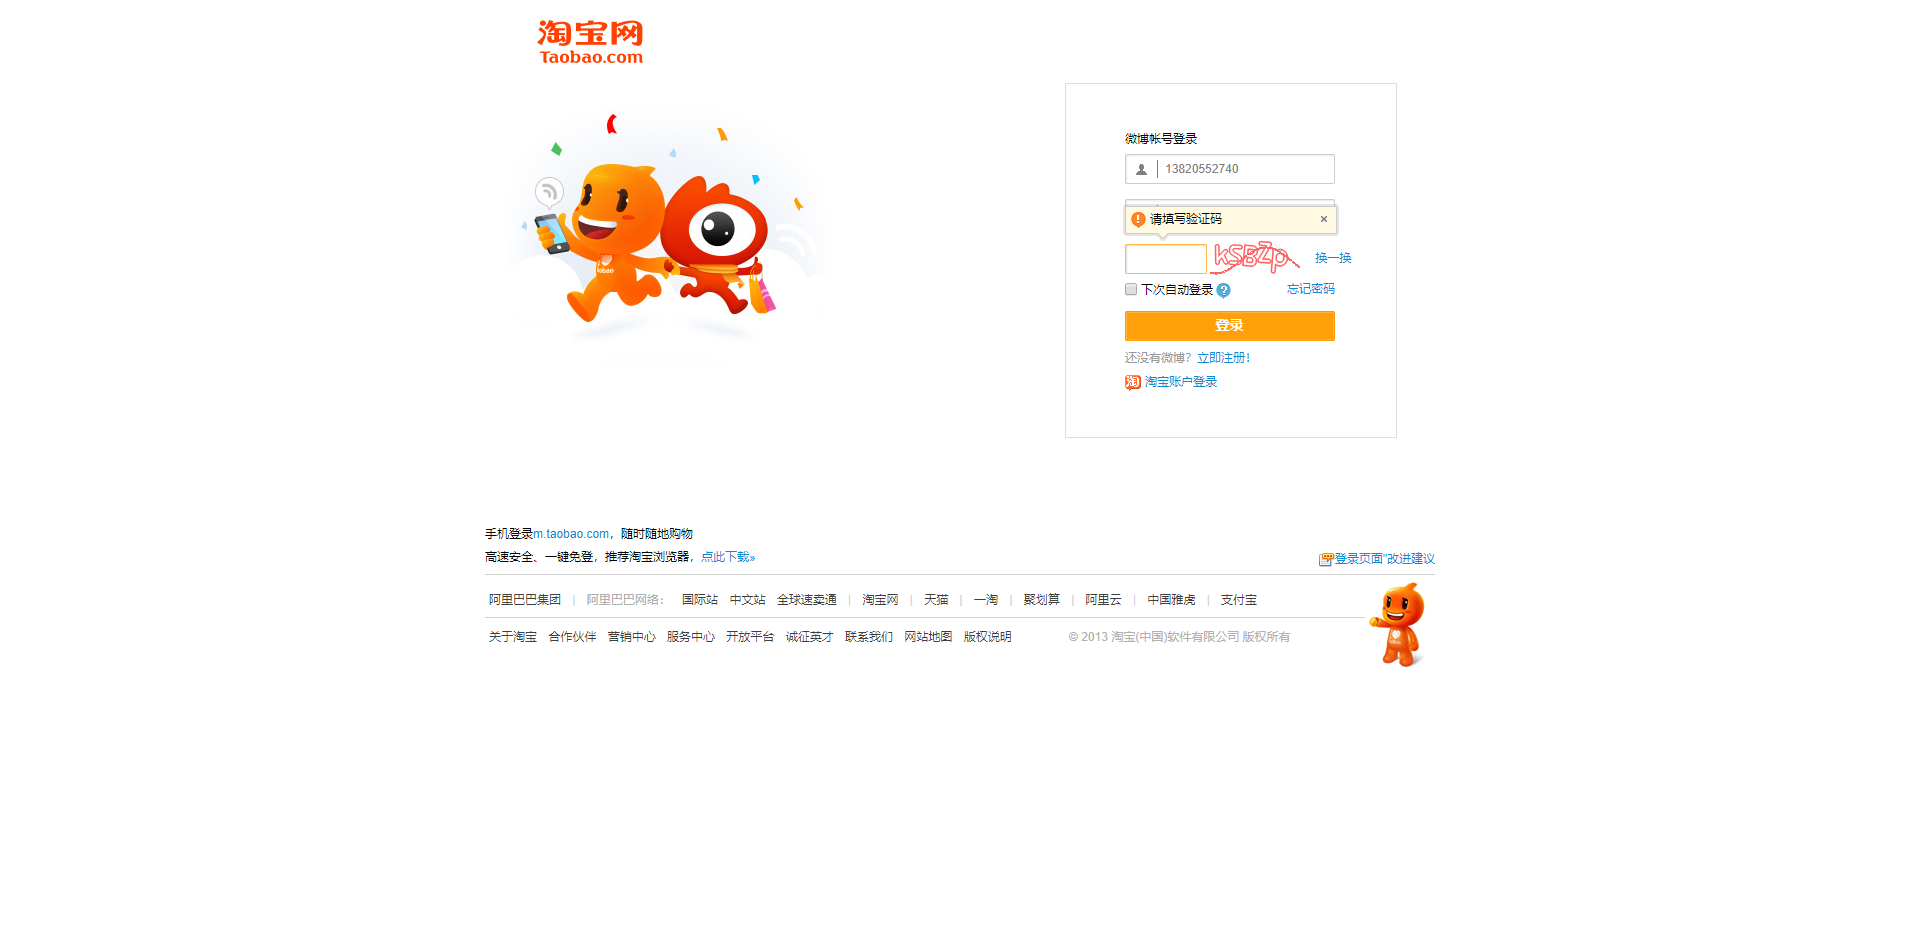
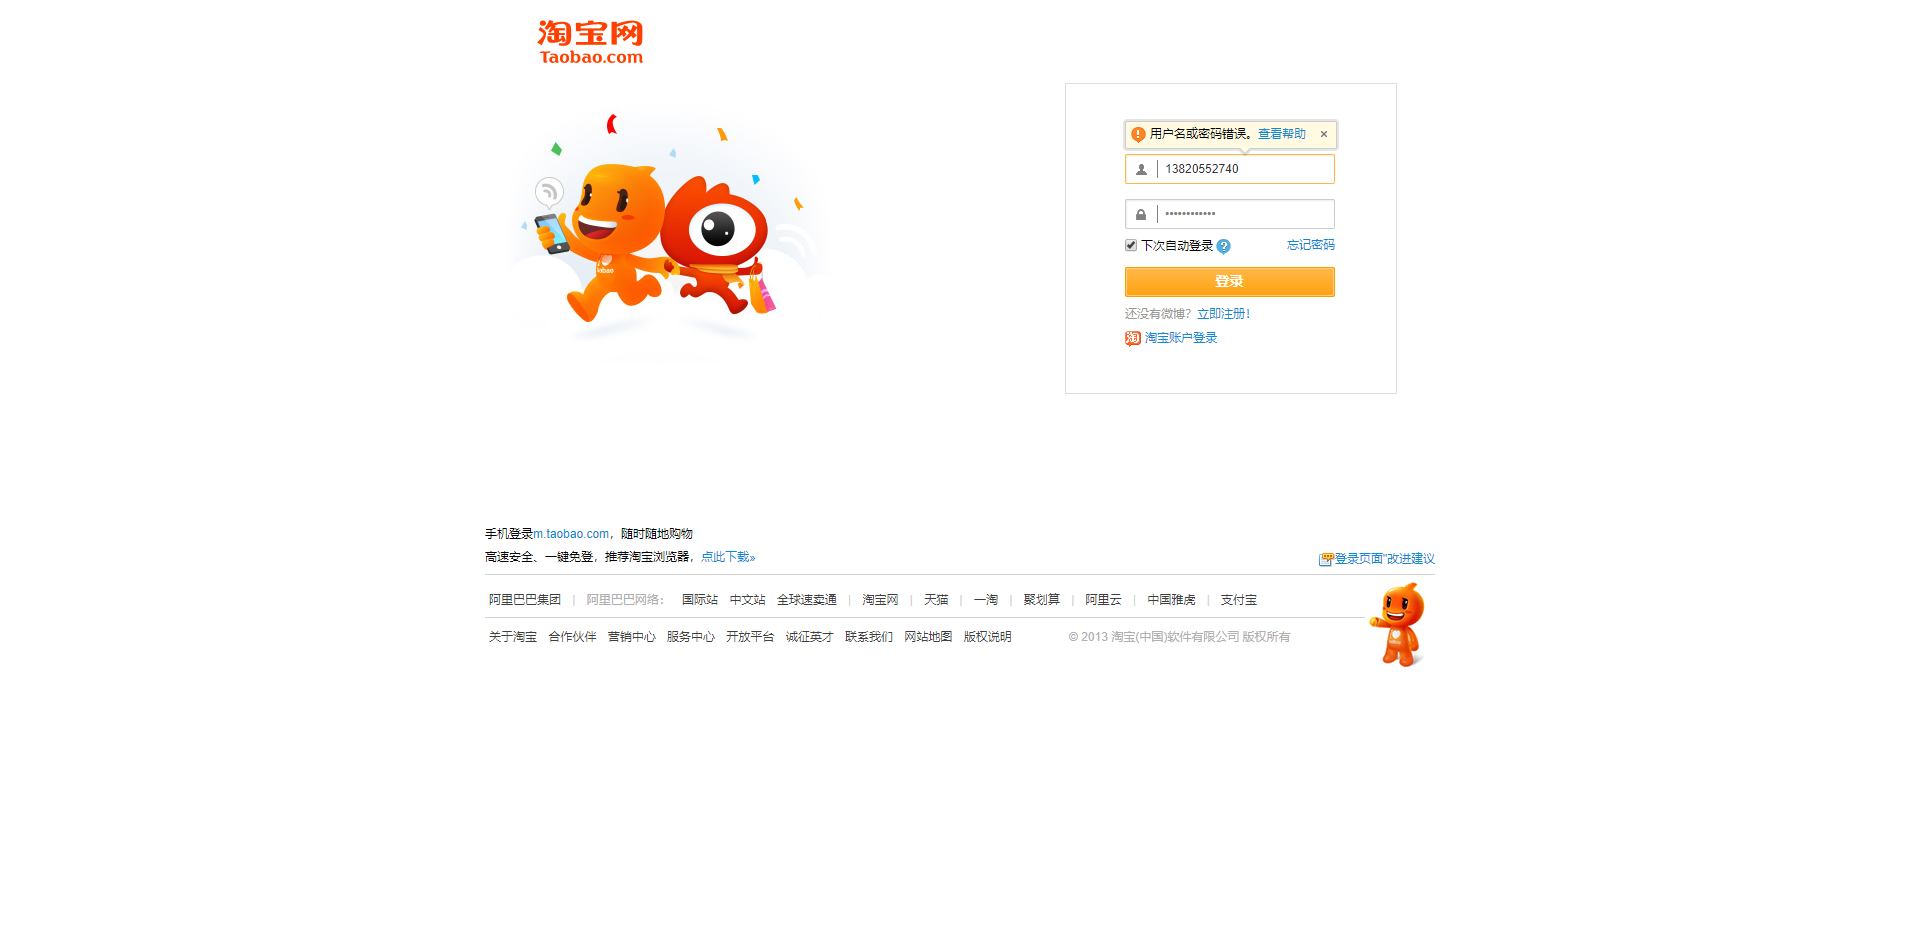
verify code delete lines

Changed region(s): [[0.5625, 0.2117, 0.7188, 0.4233], [0.5625, 0.121, 0.7188, 0.1814]]

diff --git a/headless/headlessTest.py b/headless/headlessTest.py
@@ -1,7 +1,20 @@
 import time
 
 from headless.MyHeadless import MyHeadless
+from selenium.common.exceptions import NoSuchElementException
+from selenium.webdriver.support import expected_conditions as expected
+from selenium.webdriver.common.by import By
+from selenium.webdriver.support.wait import WebDriverWait
 from PIL import Image
+
+
+def has_tag(driver, selector):
+    try:
+        driver.find_element_by_css_selector(selector)
+    except NoSuchElementException as e:
+        return False
+    return True
+
 
 if __name__ == '__main__':
     t_url = "https://login.taobao.com/member/login.jhtml"
@@ -33,10 +46,12 @@ if __name__ == '__main__':
         username_input = driver.find_element_by_css_selector('#pl_login_logged > div > div:nth-child(2) > div > input')
         # 密码
         password_input = driver.find_element_by_css_selector('#pl_login_logged > div > div:nth-child(3) > div > input')
-        # checkbox
-        check_box = driver.find_element_by_css_selector('#login_form_savestate')
+        # check box
+        check_box = driver.find_element_by_css_selector("#login_form_savestate")
+
         # 登录按钮
         login_btn = driver.find_element_by_css_selector('#pl_login_logged > div > div:nth-child(7) > div:nth-child(1) > a')
+
         username_input.clear()
         username_input.send_keys('13820552740')
         password_input.send_keys('wang60589537')
@@ -46,29 +61,28 @@ if __name__ == '__main__':
         time.sleep(5)
 
         verify_img = None
-        no_img = True
-        while no_img:
-            try:
-                verify_img = driver.find_element_by_css_selector('#pl_login_logged > div > div:nth-child(4) > div > a.code > img')
-                no_img = False
-            except driver.NoSuchElementException as e:
-                print("验证码没有出现在页面上，重新登录以显示")
-                login_btn.click()
-                time.sleep(3)
-        img_location = verify_img.location
-        img_size = verify_img.size
-        left = img_location['x']
-        top = img_location['y']
-        right = left + img_size['width']
-        bottom = top + img_size['height']
+        is_login_right = True
 
-        screen_shot = 'full_screen.png'
-        driver.save_screenshot(screen_shot)
-        # 保存当前验证码
-        temp_verify_code = Image.open(screen_shot).crop((left, top, right, bottom))
-        temp_verify_code.save('verify_code.png')
+        if has_tag(driver, 'body > div.layer_form_tips > div > div.content > p'):
+            print(driver.find_element_by_css_selector('body > div.layer_form_tips > div > div.content > p').text)
 
+        expect_element = expected.presence_of_element_located((By.CSS_SELECTOR, "#J_SiteNavLogin > div.site-nav-menu-hd > div.site-nav-user > a"))
+        ele = WebDriverWait(driver, 10, ignored_exceptions=NoSuchElementException).until(expect_element, "time out")
+        print(ele)
 
-
+        # img_location = verify_img.location
+        # img_size = verify_img.size
+        # left = img_location['x']
+        # top = img_location['y']
+        # right = left + img_size['width']
+        # bottom = top + img_size['height']
+        #
+        # screen_shot = 'full_screen.png'
+        # driver.save_screenshot(screen_shot)
+        # # 保存当前验证码
+        # temp_verify_code = Image.open(screen_shot).crop((left, top, right, bottom))
+        # temp_verify_code.save('verify_code.png')
     # driver.close()
+
+
 
